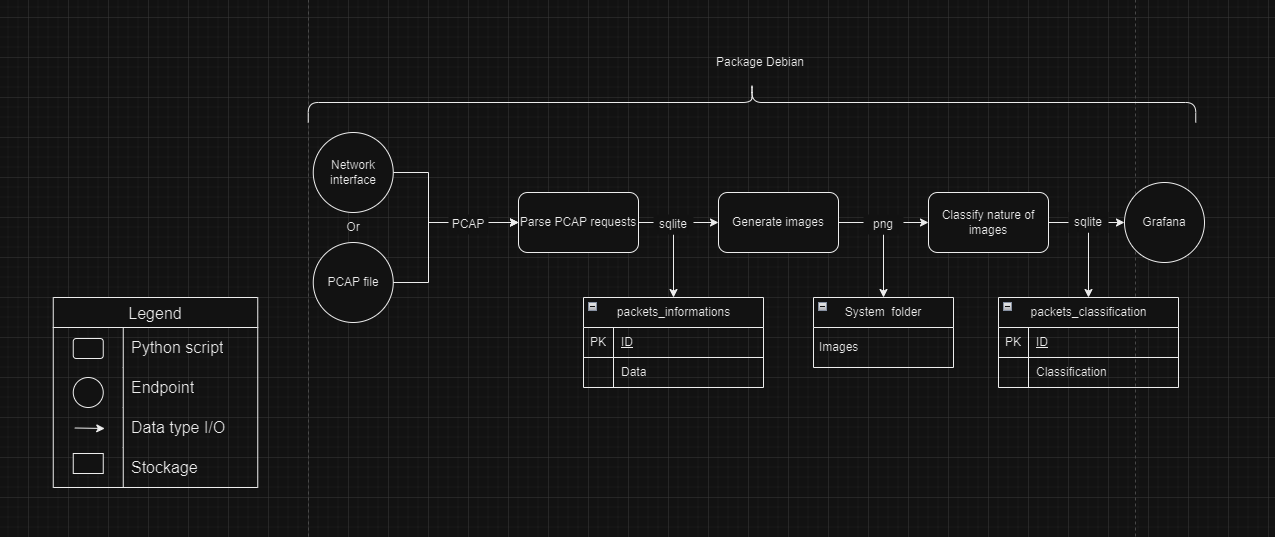
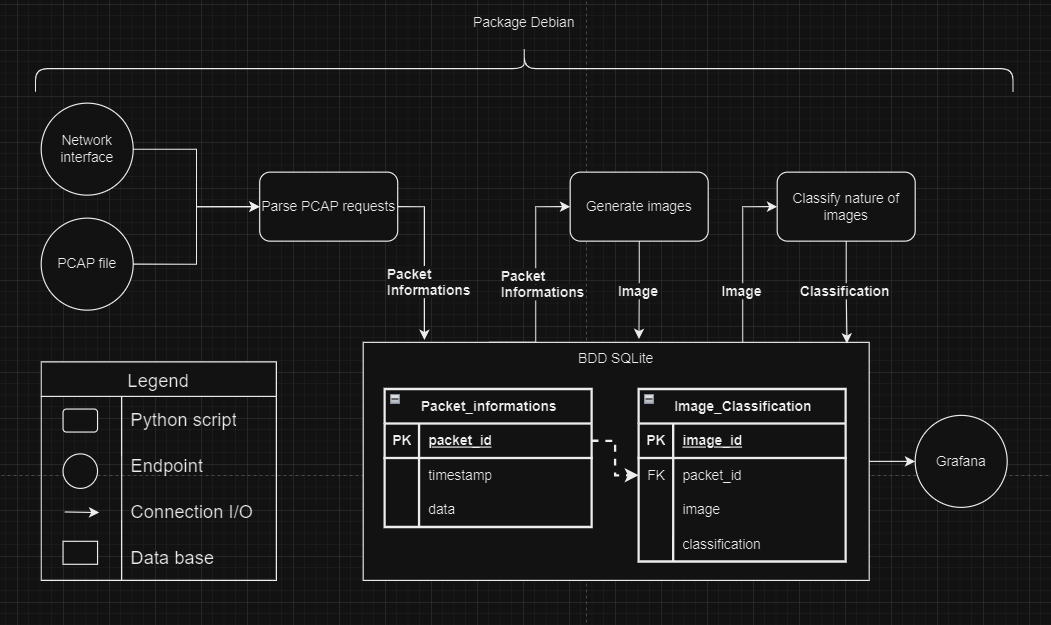
ajout convertion pcap to sqlite & ajout fichiers requirements.txt pour le total & ajout initialisation de db & changement screen schema

diff --git a/python_scripts/parse_pcap_requests/convert_pcap_to_sqli.py b/python_scripts/parse_pcap_requests/convert_pcap_to_sqli.py
@@ -1,0 +1,168 @@
+from scapy.all import rdpcap, IP, TCP, sniff, get_if_addr
+import configparser
+import os
+import sqlite3
+
+
+output_db_file = ""
+input_pcap_file = ""
+network_interface = ""
+capture_pcap_mode = 0
+packets = 0
+db_dict = {"forward_packets_per_second": [], "backward_packets_per_second": [], "bytes_transferred_per_second": [], "separator_1": [], "source_port": [], "destination_port": [], "ip_length": [], "payload_length": [], "ip_ttl": [], "ip_tos": [], "tcp_data_offset": [], "tcp_flags": [], "separator_2": [], "payload_bytes": []}
+
+
+def load_pcap_file():
+    global input_pcap_file
+    global packets
+
+    packets = rdpcap(input_pcap_file)
+
+
+def parse_flow_information():
+    global capture_pcap_mode
+    global network_interface
+    global packets
+    forward_packets_per_second = 0
+    backward_packets_per_second = 0
+    bytes_transferred_per_second = 0
+
+    if capture_pcap_mode == 0:
+        current_ip = get_if_addr(network_interface)
+        for pkt in packets:
+            if IP in pkt:
+                bytes_transferred_per_second += len(pkt)
+                if pkt[IP].src == current_ip:
+                    forward_packets_per_second += 1
+                elif pkt[IP].dst == current_ip:
+                    backward_packets_per_second += 1
+    elif capture_pcap_mode == 1:
+        forward_packets_per_second = 1190
+        backward_packets_per_second = 1582
+        bytes_transferred_per_second = 3542198
+
+    max_values = max(len(values) for values in db_dict.values())
+    for i in range(max_values):
+        db_dict["forward_packets_per_second"].append(forward_packets_per_second)
+        db_dict["backward_packets_per_second"].append(backward_packets_per_second)
+        db_dict["bytes_transferred_per_second"].append(bytes_transferred_per_second)
+
+
+def parse_header_information(pkt):
+    ip_length = pkt[IP].len
+    ip_ttl = pkt[IP].ttl
+    ip_tos = pkt[IP].tos
+    source_port = pkt[TCP].sport
+    destination_port = pkt[TCP].dport
+    tcp_data_offset = pkt[TCP].dataofs
+    tcp_flags = pkt[TCP].flags
+    payload_length = len(pkt[TCP].payload)
+
+    db_dict["source_port"].append(source_port)
+    db_dict["destination_port"].append(destination_port)
+    db_dict["ip_length"].append(ip_length)
+    db_dict["payload_length"].append(payload_length)
+    db_dict["ip_ttl"].append(ip_ttl)
+    db_dict["ip_tos"].append(ip_tos)
+    db_dict["tcp_data_offset"].append(tcp_data_offset)
+    db_dict["tcp_flags"].append(int(tcp_flags))
+
+
+def parse_payload_bytes(pkt):
+    payload_bytes = ""
+
+    payload = pkt[TCP].payload
+
+    for byte in bytes(payload):
+        payload_bytes += f"{str(byte)} "
+
+    db_dict["payload_bytes"].append(payload_bytes)
+
+
+def write_dict_to_sqli():
+    global output_db_file
+    sql_payload = ""
+
+    # Create sql payload
+    max_values = max(len(values) for values in db_dict.values())
+    columns = list(db_dict.keys())
+
+    sql_payload += "INSERT INTO Packet_informations ("
+    for i, column_name in enumerate(columns):  # récupère les keys du dict
+        if i < len(columns) - 1:  # si ce n'est pas le dernier
+            sql_payload += f"{column_name},"
+        else:
+            sql_payload += f"{column_name}) VALUES "
+    for k in range(max_values):
+        sql_payload += "("
+        for i, column in enumerate(columns):  # récupère les keys du dict
+            value = f"'{db_dict[column][k]}'"
+            if i < len(columns) - 1:  # si ce n'est pas le dernier
+                sql_payload += f"{value},"
+            else:
+                sql_payload += f"{value}"
+        if k < max_values-1:
+            sql_payload += "),"
+        else:
+            sql_payload += ")"
+
+    # Connect to db and execute sql payload
+    connection = sqlite3.connect(output_db_file)
+    c = connection.cursor()
+
+    c.execute(sql_payload)
+
+    connection.commit()
+    connection.close()
+
+
+def read_config_file():
+    config_file = configparser.ConfigParser()
+    global output_db_file
+    global input_pcap_file
+    global network_interface
+    global capture_pcap_mode
+
+    current_folder = os.path.dirname(os.path.abspath(__file__))
+    config_file_path = os.path.join(current_folder, "../file.conf")
+
+    config_file.read(config_file_path)
+    section = "PARSE_PCAP_REQUESTS"
+    output_db_file = config_file.get('INITIALISATION', 'OutputDBFile')
+    input_pcap_file = config_file.get(section, 'InputPCAPFile')
+    network_interface = config_file.get(section, 'NetworkInterface')
+    capture_pcap_mode = int(config_file.get(section, 'CapturePCAPMode'))
+
+
+def sniff_network_interface():
+    global network_interface
+    global packets
+
+    packets = sniff(iface=network_interface, timeout=1)
+
+
+def packets_processing():
+    global packets
+
+    for packet in packets:
+        if IP in packet:
+            if TCP in packet:
+                db_dict["separator_1"].append(-1)
+                parse_header_information(packet)
+                db_dict["separator_2"].append(-1)
+                parse_payload_bytes(packet)
+    parse_flow_information()
+
+    write_dict_to_sqli()
+
+
+if __name__ == "__main__":
+    read_config_file()
+
+    if capture_pcap_mode == 0:
+        while True:
+            sniff_network_interface()
+            packets_processing()
+    elif capture_pcap_mode == 1:
+        load_pcap_file()
+        packets_processing()

diff --git a/python_scripts/Initialisation/create_sqlite_db.py b/python_scripts/Initialisation/create_sqlite_db.py
@@ -1,0 +1,52 @@
+import sqlite3
+import configparser
+import os
+
+
+output_db_file = ""
+
+
+def read_config_file():
+    config_file = configparser.ConfigParser()
+    global output_db_file
+
+    current_folder = os.path.dirname(os.path.abspath(__file__))
+    config_file_path = os.path.join(current_folder, "../file.conf")
+
+    config_file.read(config_file_path)
+    output_db_file = config_file.get('INITIALISATION', 'OutputDBFile')
+
+
+def create_db():
+    connection = sqlite3.connect(output_db_file)
+    c = connection.cursor()
+
+    # Table Packet_informations
+    c.execute("""
+    CREATE TABLE IF NOT EXISTS Packet_informations
+    (
+    [packet_id] INTEGER PRIMARY KEY,
+    [forward_packets_per_second] INTEGER,
+    [backward_packets_per_second] INTEGER,
+    [bytes_transferred_per_second] INTEGER,
+    [separator_1] INTEGER,
+    [source_port] INTEGER,
+    [destination_port] INTEGER,
+    [ip_length] INTEGER,
+    [payload_length] INTEGER,
+    [ip_ttl] INTEGER,
+    [ip_tos] INTEGER,
+    [tcp_data_offset] INTEGER,
+    [tcp_flags] INTEGER,
+    [separator_2] INTEGER,
+    [payload_bytes] TEXT
+    )
+    """)
+
+    connection.commit()
+    connection.close()
+
+
+if __name__ == "__main__":
+    read_config_file()
+    create_db()
